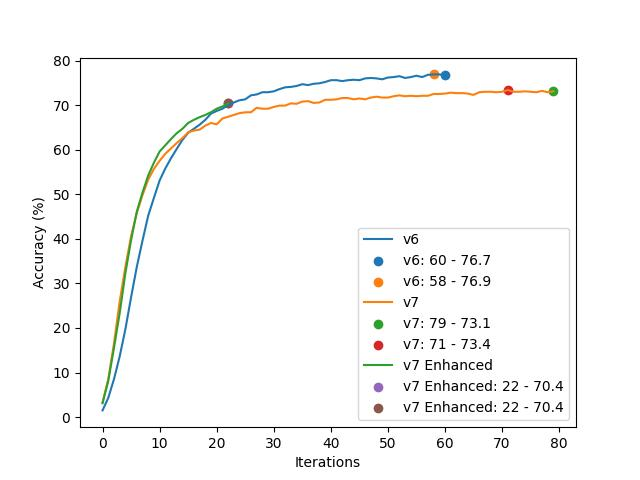
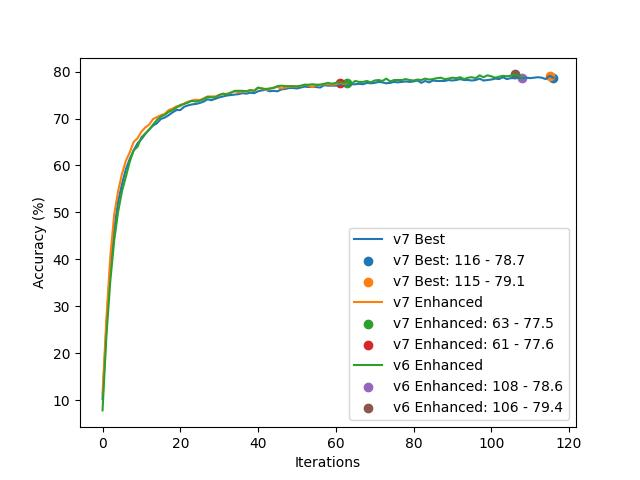
new quad-direction scan

diff --git a/classification/models/vrwkv7.py b/classification/models/vrwkv7.py
@@ -10,7 +10,13 @@ import torch.nn as nn
 from torch.nn import functional as F
 import torch.utils.checkpoint as cp
 
+SCAN_FORWARD = 0
+SCAN_BACKWARD = 1
+SCAN_UPWARD = 2
+SCAN_DOWNWARD = 3
+
 from einops import rearrange
+from einops.layers.torch import Rearrange
 
 # from mmcv.runner.base_module import BaseModule, ModuleList
 from mmcv.cnn.bricks.transformer import PatchEmbed
@@ -221,11 +227,11 @@ class RWKV7(nn.Module):
             self.time_decay_w1 = nn.Parameter(torch.zeros(n_embd, D_DECAY_LORA))
             self.time_decay_w2 = nn.Parameter(ortho_init(torch.zeros(D_DECAY_LORA, dim_att), 0.1))
 
-            D_AAA_LORA = 16
+            D_AAA_LORA = 24
             self.time_aaa_w1 = nn.Parameter(torch.zeros(n_embd, D_AAA_LORA))
             self.time_aaa_w2 = nn.Parameter(ortho_init(torch.zeros(D_AAA_LORA, dim_att), 0.1))
 
-            D_KKK_LORA = 16
+            D_KKK_LORA = 24
             self.time_kkk_w1 = nn.Parameter(torch.zeros(n_embd, D_KKK_LORA))
             self.time_kkk_w2 = nn.Parameter(ortho_init(torch.zeros(D_KKK_LORA, dim_att), 0.1))
 
@@ -233,16 +239,16 @@ class RWKV7(nn.Module):
             self.gate_w1 = nn.Parameter(torch.zeros(n_embd, D_GATE_LORA))
             self.gate_w2 = nn.Parameter(ortho_init(torch.zeros(D_GATE_LORA, dim_att), 0.1))
 
-            D_MA_LORA = 16
+            D_MA_LORA = 24
             self.ma_w1 = nn.Parameter(torch.zeros(n_embd, D_MA_LORA))
             self.ma_w2 = nn.Parameter(ortho_init(torch.zeros(D_MA_LORA, dim_att), 0.1))
             self.time_misc_a = nn.Parameter(torch.zeros(1,1,n_embd))
-            D_MK_LORA = 16
+            D_MK_LORA = 24
             self.mk_w1 = nn.Parameter(torch.zeros(n_embd, D_MK_LORA))
             self.mk_w2 = nn.Parameter(ortho_init(torch.zeros(D_MK_LORA, dim_att), 0.1))
             self.time_misc_k = nn.Parameter(torch.zeros(1,1,n_embd))
             if layer_id != 0:
-                D_MV_LORA = 16
+                D_MV_LORA = 24
                 self.mv_w1 = nn.Parameter(torch.zeros(n_embd, D_MV_LORA))
                 self.mv_w2 = nn.Parameter(ortho_init(torch.zeros(D_MV_LORA, dim_att), 0.1))
                 self.time_misc_v = nn.Parameter(torch.zeros(1,1,n_embd)+1.0)
@@ -259,7 +265,29 @@ class RWKV7(nn.Module):
             self.value.weight.data.uniform_(-0.5/(self.n_embd**0.5), 0.5/(self.n_embd**0.5))
             self.output.weight.data.zero_()
 
-    def forward(self, x, v1, res):
+            self.n_layer = n_layer
+
+    def forward(self, x, v1, res, scan):
+        scan = scan[self.layer_id % len(scan)]
+        trans = Rearrange('b (h w) c -> b (w h) c', h=res[0])
+        restore = Rearrange('b (w h) c -> b (h w) c', h=res[0])
+        if scan == SCAN_FORWARD:
+            x, v1 = self._forward(x, v1, res)
+        elif scan == SCAN_BACKWARD:
+            x, v1 = torch.flip(x, dims=[1]), torch.flip(v1, dims=[1])
+            x, v1 = self._forward(x, v1, res)
+            x, v1 = torch.flip(x, dims=[1]), torch.flip(v1, dims=[1])
+        elif scan == SCAN_DOWNWARD:
+            x, v1 = trans(x), trans(v1)
+            x, v1 = self._forward(x, v1, res)
+            x, v1 = restore(x), restore(v1)
+        elif scan == SCAN_UPWARD:
+            x, v1 = torch.flip(trans(x), dims=[1]), torch.flip(trans(v1), dims=[1])
+            x, v1 = self._forward(x, v1, res)
+            x, v1 = restore(torch.flip(x, dims=[1])), restore(torch.flip(v1, dims=[1]))
+        return x, v1
+
+    def _forward(self, x, v1, res):
         B, T, C = x.size()
         H = self.n_head
         xx = self.shift_func(x, self.shift_pixel, patch_resolution=res, 
@@ -379,9 +407,9 @@ class RWKV7Block(nn.Module):
         self.ln1 = nn.LayerNorm(n_embd)
         self.ln2 = nn.LayerNorm(n_embd)
 
-    def forward(self, x, v1, x0, res):
+    def forward(self, x, v1, x0, res, scan):
         x = self.lambdas[0] * x + self.lambdas[1] * x0
-        x1, v1 = self.attn(self.ln1(x), v1, res)
+        x1, v1 = self.attn(self.ln1(x), v1, res, scan)
         x = x + x1
         x = x + self.mlp(self.ln2(x), res)
         return x, v1
@@ -494,6 +522,13 @@ class VRWKV7(BaseBackbone):
             stride=patch_size,
             bias=True)
         
+        self.scan_method = [
+            SCAN_FORWARD,
+            SCAN_BACKWARD,
+            SCAN_UPWARD,
+            SCAN_DOWNWARD
+        ]
+        
         self.patch_resolution = self.patch_embed.init_out_size
         num_patches = self.patch_resolution[0] * self.patch_resolution[1]
 
@@ -574,7 +609,7 @@ class VRWKV7(BaseBackbone):
 
         for i, layer in enumerate(self.layers):
             if isinstance(layer, RWKV7Block):
-                x, v1 = layer(x, v1, x0, patch_resolution)
+                x, v1 = layer(x, v1, x0, patch_resolution, self.scan_method)
             else:
                 x = layer(x, patch_resolution)
             if i == len(self.layers) - 1 and self.final_norm:

diff --git a/classification/graph.py b/classification/graph.py
@@ -24,9 +24,10 @@ def process_logfile(filename: str, name: str):
 def main():
     # process_logfile(filename="log.txt.4", name="Original")
     # process_logfile(filename="log.txt.5", name="v7 Uni-Shift")
-    process_logfile(filename="log.txt.6", name="v6")
-    process_logfile(filename="tmp/vrwkv7_tiny_0230s.1/20241231112311/log_rank0.txt", name="v7")
+    # process_logfile(filename="log.txt.6", name="v6")
+    process_logfile(filename="log.txt.9", name="v7 Best")
     process_logfile(filename="log.txt.7", name="v7 Enhanced")
+    process_logfile(filename="log.txt.8", name="v6 Enhanced")
     plt.legend()
     plt.xlabel("Iterations")
     plt.ylabel("Accuracy (%)")
